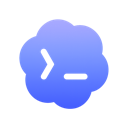
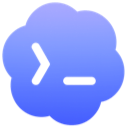
fix(hud): trim the agent art to its opaque bounds so the marks fill the chip
The Codex logo rendered tiny because its 1024px canvas is 28% transparent
margin (opaque bbox 746x749, 72% fill) while Cursor's art fills 90-100% —
scaledToFit shrank the visible mark by exactly that difference. Resources
are now cropped to the opaque bounding box (+2% margin) before scaling,
and the marks step up inside the 15pt plate: images 11->12pt, Clawd
11->13pt wide (his box is wide-format; width is what reads as size).

diff --git a/VibezHUD/Sources/VibezHUDApp/Views/AgentChip.swift b/VibezHUD/Sources/VibezHUDApp/Views/AgentChip.swift
@@ -27,7 +27,7 @@ struct AgentChip: View {
     @ViewBuilder private var mark: some View {
         switch agent {
         case .claude:
-            ClawdChip(critterWidth: 11)
+            ClawdChip(critterWidth: 13)
         case .codex:
             brandImage(Self.codexArt, fallbackGlyph: "◆", fallbackColor: HUDTheme.chip(.codex))
         case .cursor:
@@ -40,7 +40,7 @@ struct AgentChip: View {
         if let image {
             Image(nsImage: image)
                 .resizable().scaledToFit()
-                .frame(width: 11, height: 11)
+                .frame(width: 12, height: 12)
         } else {
             // Resource missing (odd bundle layout): the old glyph, never a blank chip.
             Text(fallbackGlyph).font(.system(size: 8, weight: .bold)).foregroundStyle(fallbackColor)
